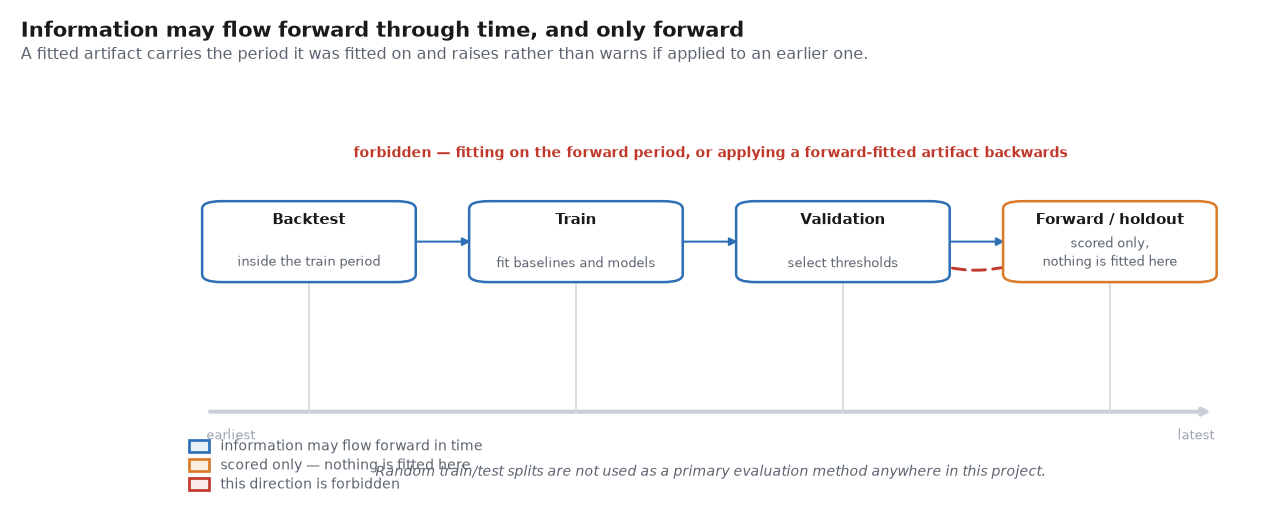
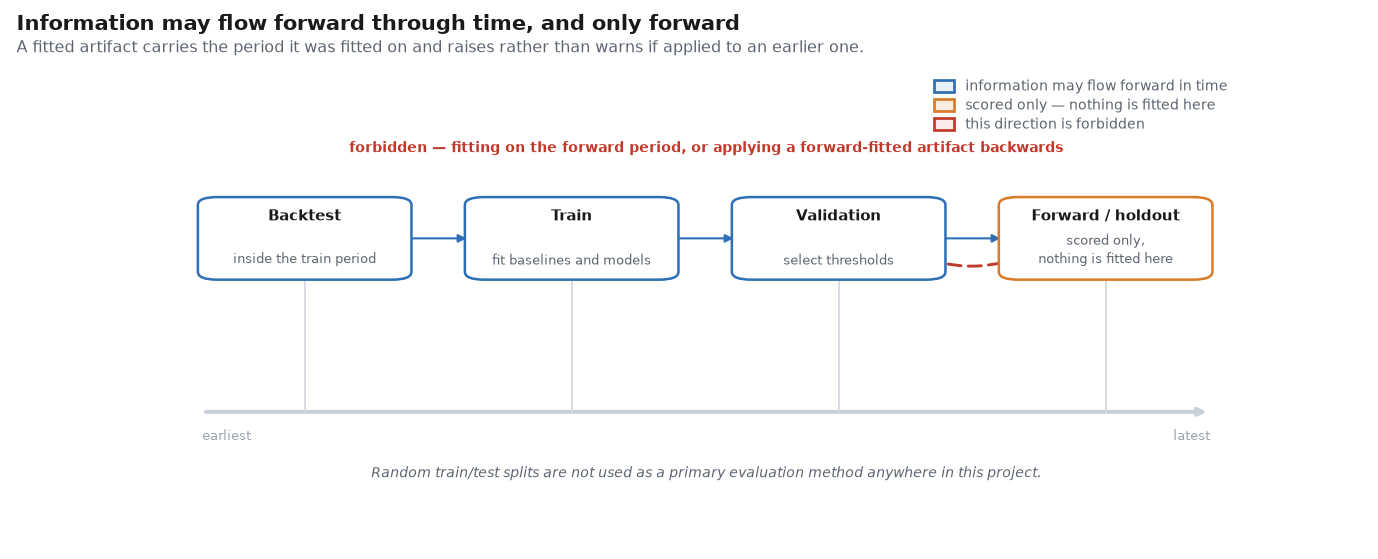
current build save

diff --git a/src/mosaic/reporting/figures.py b/src/mosaic/reporting/figures.py
@@ -1081,7 +1081,10 @@ def temporal_leakage(out_path: str | Path) -> str:
             ("scored only — nothing is fitted here", ORANGE, IMPLEMENTED),
             ("this direction is forbidden", RED, FORBIDDEN),
         ],
-        loc="lower left",
+        # lower left collided with the "earliest" axis label (y 0.144..0.176) and
+        # the italic note (x 0.186..0.814, y 0.059..0.091): the legend box spanned
+        # x 0.006..0.292, y 0.036..0.180 and overlapped both.
+        loc="upper right",
     )
     ax.set_ylim(0.02, 1.0)
     return _finish(fig, ax, Path(out_path))

diff --git a/README.md b/README.md
@@ -271,34 +271,24 @@ Stages shown as detectors, fusion, API and UI are **not yet implemented**.
 
 ## 7. Research workflow
 
-```mermaid
-flowchart LR
-    Q["Research question"] --> DS["Dataset<br/>synthetic + public"]
-    DS --> PROTO["Experimental protocol<br/>chronological splits"]
-    PROTO --> BASE["Statistical & ML<br/>baselines"]
-    BASE --> INT["Intervention<br/>add feature family /<br/>add source"]
-    INT --> EVAL["Out-of-time<br/>evaluation"]
-    EVAL --> ABL["Ablation<br/>what caused it"]
-    ABL --> ROB["Robustness<br/>ER noise, outages"]
-    ROB --> SCALE["Scalability"]
-    SCALE --> REP["Report<br/>incl. negative results"]
-```
+![Research workflow: a research question flows through dataset, experimental protocol, baselines,
+intervention, out-of-time evaluation, ablation, robustness and report. Two stages are done, the
+question itself is the study's starting point, and the rest have no artifact yet. A feedback arrow
+returns from the report stage to the research question.](docs/figures/research-workflow.png)
+
+*Nine stages from question to report. A result that cannot change the framing was not worth
+running - which is what the feedback arrow back to the research question records.*
 
 ## 8. Multi-source integration
 
-```mermaid
-flowchart TB
-    A["transit_feed<br/>snake_case, epoch offsets,<br/>no location"] --> AD1["adapter A"]
-    B["sensor_grid<br/>camelCase, local tz,<br/>imprecise timestamps"] --> AD2["adapter B"]
-    C["ops_log<br/>free text, categories"] --> AD3["adapter C"]
-    D["billing_extract<br/>ids, delayed arrival"] --> AD4["adapter D"]
-    AD1 --> CAN["Canonical contract<br/>event_id, timestamp,<br/>entity_ref_norm,<br/>event_type, source_id"]
-    AD2 --> CAN
-    AD3 --> CAN
-    AD4 --> CAN
-    CAN --> ER["Entity resolution"]
-    ER --> SHARED["Shared analytical<br/>representation"]
-```
+![Data integration: transit_feed, sensor_grid, ops_log and billing_extract carry four mutually
+incompatible native schemas. They merge into a single Adapters stage, then into the canonical
+representation, then entity resolution, and finally into one unified analytical view of 504
+clusters for 500 true entities at precision 0.996 and recall 0.997.
+](docs/figures/data-integration.png)
+
+*Four sources that disagree about identity, time and units, resolved into one analytical view.*
+*Every arrow above is a modelling decision: a time origin, an identity rule, a unit convention.*
 
 The four native schemas are deliberately incompatible. Each adapter's `normalize`
 is the only place that knows its source's conventions, and a single shared
@@ -358,14 +348,14 @@ passes.
 
 ## 11. Temporal leakage model
 
-```mermaid
-flowchart LR
-    BT["Backtest<br/>(within train)"] --> TR["Train<br/>fit baselines,<br/>fit models"]
-    TR --> VA["Validation<br/>select thresholds"]
-    VA --> FW["Forward / holdout<br/>scored only,<br/>never fitted"]
-    VA -. "information may never<br/>travel backwards" .-> X["forbidden"]
-    FW -. "nothing is fitted here" .-> X
-```
+![Temporal leakage model: backtest inside the train period, then train, then validation, then a
+forward holdout that is scored only and never fitted. A dashed red arrow marks the forbidden
+direction - fitting on the forward period or applying a forward-fitted artifact backwards - and a
+timeline from earliest to latest fixes the direction of time.
+](docs/figures/temporal-leakage.png)
+
+*Information may flow forward through time, and only forward. Random train/test splits are not
+used as a primary evaluation method anywhere in this project.*
 
 `experiments/protocol.py` is the single source of every split. Fitted artifacts
 carry a `FittedOn` stamp and **raise `LeakageError`** if applied to a period
@@ -379,15 +369,14 @@ clustering values are bit-identical and the PageRank ranking is unchanged.
 
 ## 12. Graph methodology
 
-```mermaid
-flowchart TB
-    EV["Events with canonical<br/>entity_id and peers"] --> EDG["Edge list<br/>first_seen = first<br/>observation time"]
-    EDG --> SNAP["Snapshot at cutoff T<br/>only edges with first_seen <= T"]
-    SNAP --> MEAS["Measures<br/>in/out + weighted degree<br/>PageRank · betweenness<br/>clustering · community"]
-    MEAS --> GF["graph_* features"]
-    EDG --> CHG["Graph-change features<br/>new neighbours,<br/>new-neighbour ratio,<br/>recent-neighbour count"]
-    CHG --> GF
-```
+![Graph methodology: the top band is the permitted construction - events with canonical entity ids
+and peers become an edge list stamped with first_seen, replayed to a cutoff T keeping only edges
+with first_seen at or before T, then measured. The lower band is the forbidden shortcut - all events
+at once in one global graph, measured whole, producing a silent leak because degree, PageRank and
+community then contain edges first seen later.](docs/figures/graph-methodology.png)
+
+*A snapshot at T contains only edges first seen at or before T. A relationship observed in the
+future cannot inform a historical measurement.*
 
 Measures: in/out and weighted degree, PageRank, betweenness centrality, clustering
 coefficient, and community assignment. Betweenness is computed on a subset of
@@ -402,16 +391,15 @@ constrains which graph features are worth computing at all.
 
 ## 13. Evidence lineage
 
-```mermaid
-flowchart LR
-    SRC["Source record"] --> EVT["Canonical event"]
-    EVT --> FEAT["Feature value<br/>+ registry fingerprint"]
-    FEAT --> MDL["Model"]
-    MDL --> SC["Score"]
-    SC --> AN["Anomaly"]
-    AN --> WHY["Explanation<br/>contributing features"]
-    WHY --> EXP["Experiment record"]
-```
+![Evidence lineage: a source record becomes a canonical event, then a feature value carrying a
+registry fingerprint, then a model, score, anomaly, explanation and finally an experiment record.
+A full-width evidence store below holds one row per score - contributing feature values, model
+weights and run fingerprint - and dashed lines tie every stage back to it, so an anomaly can be
+walked back to its source records and forward to the experiment that measured it.
+](docs/figures/evidence-lineage.png)
+
+*The evidence store is the join between a score and the rows that produced it. It is not
+implemented yet.*
 
 The intended property is that any anomaly can be walked backwards to the source
 records that produced it, and forwards to the experiment that measured it. The
